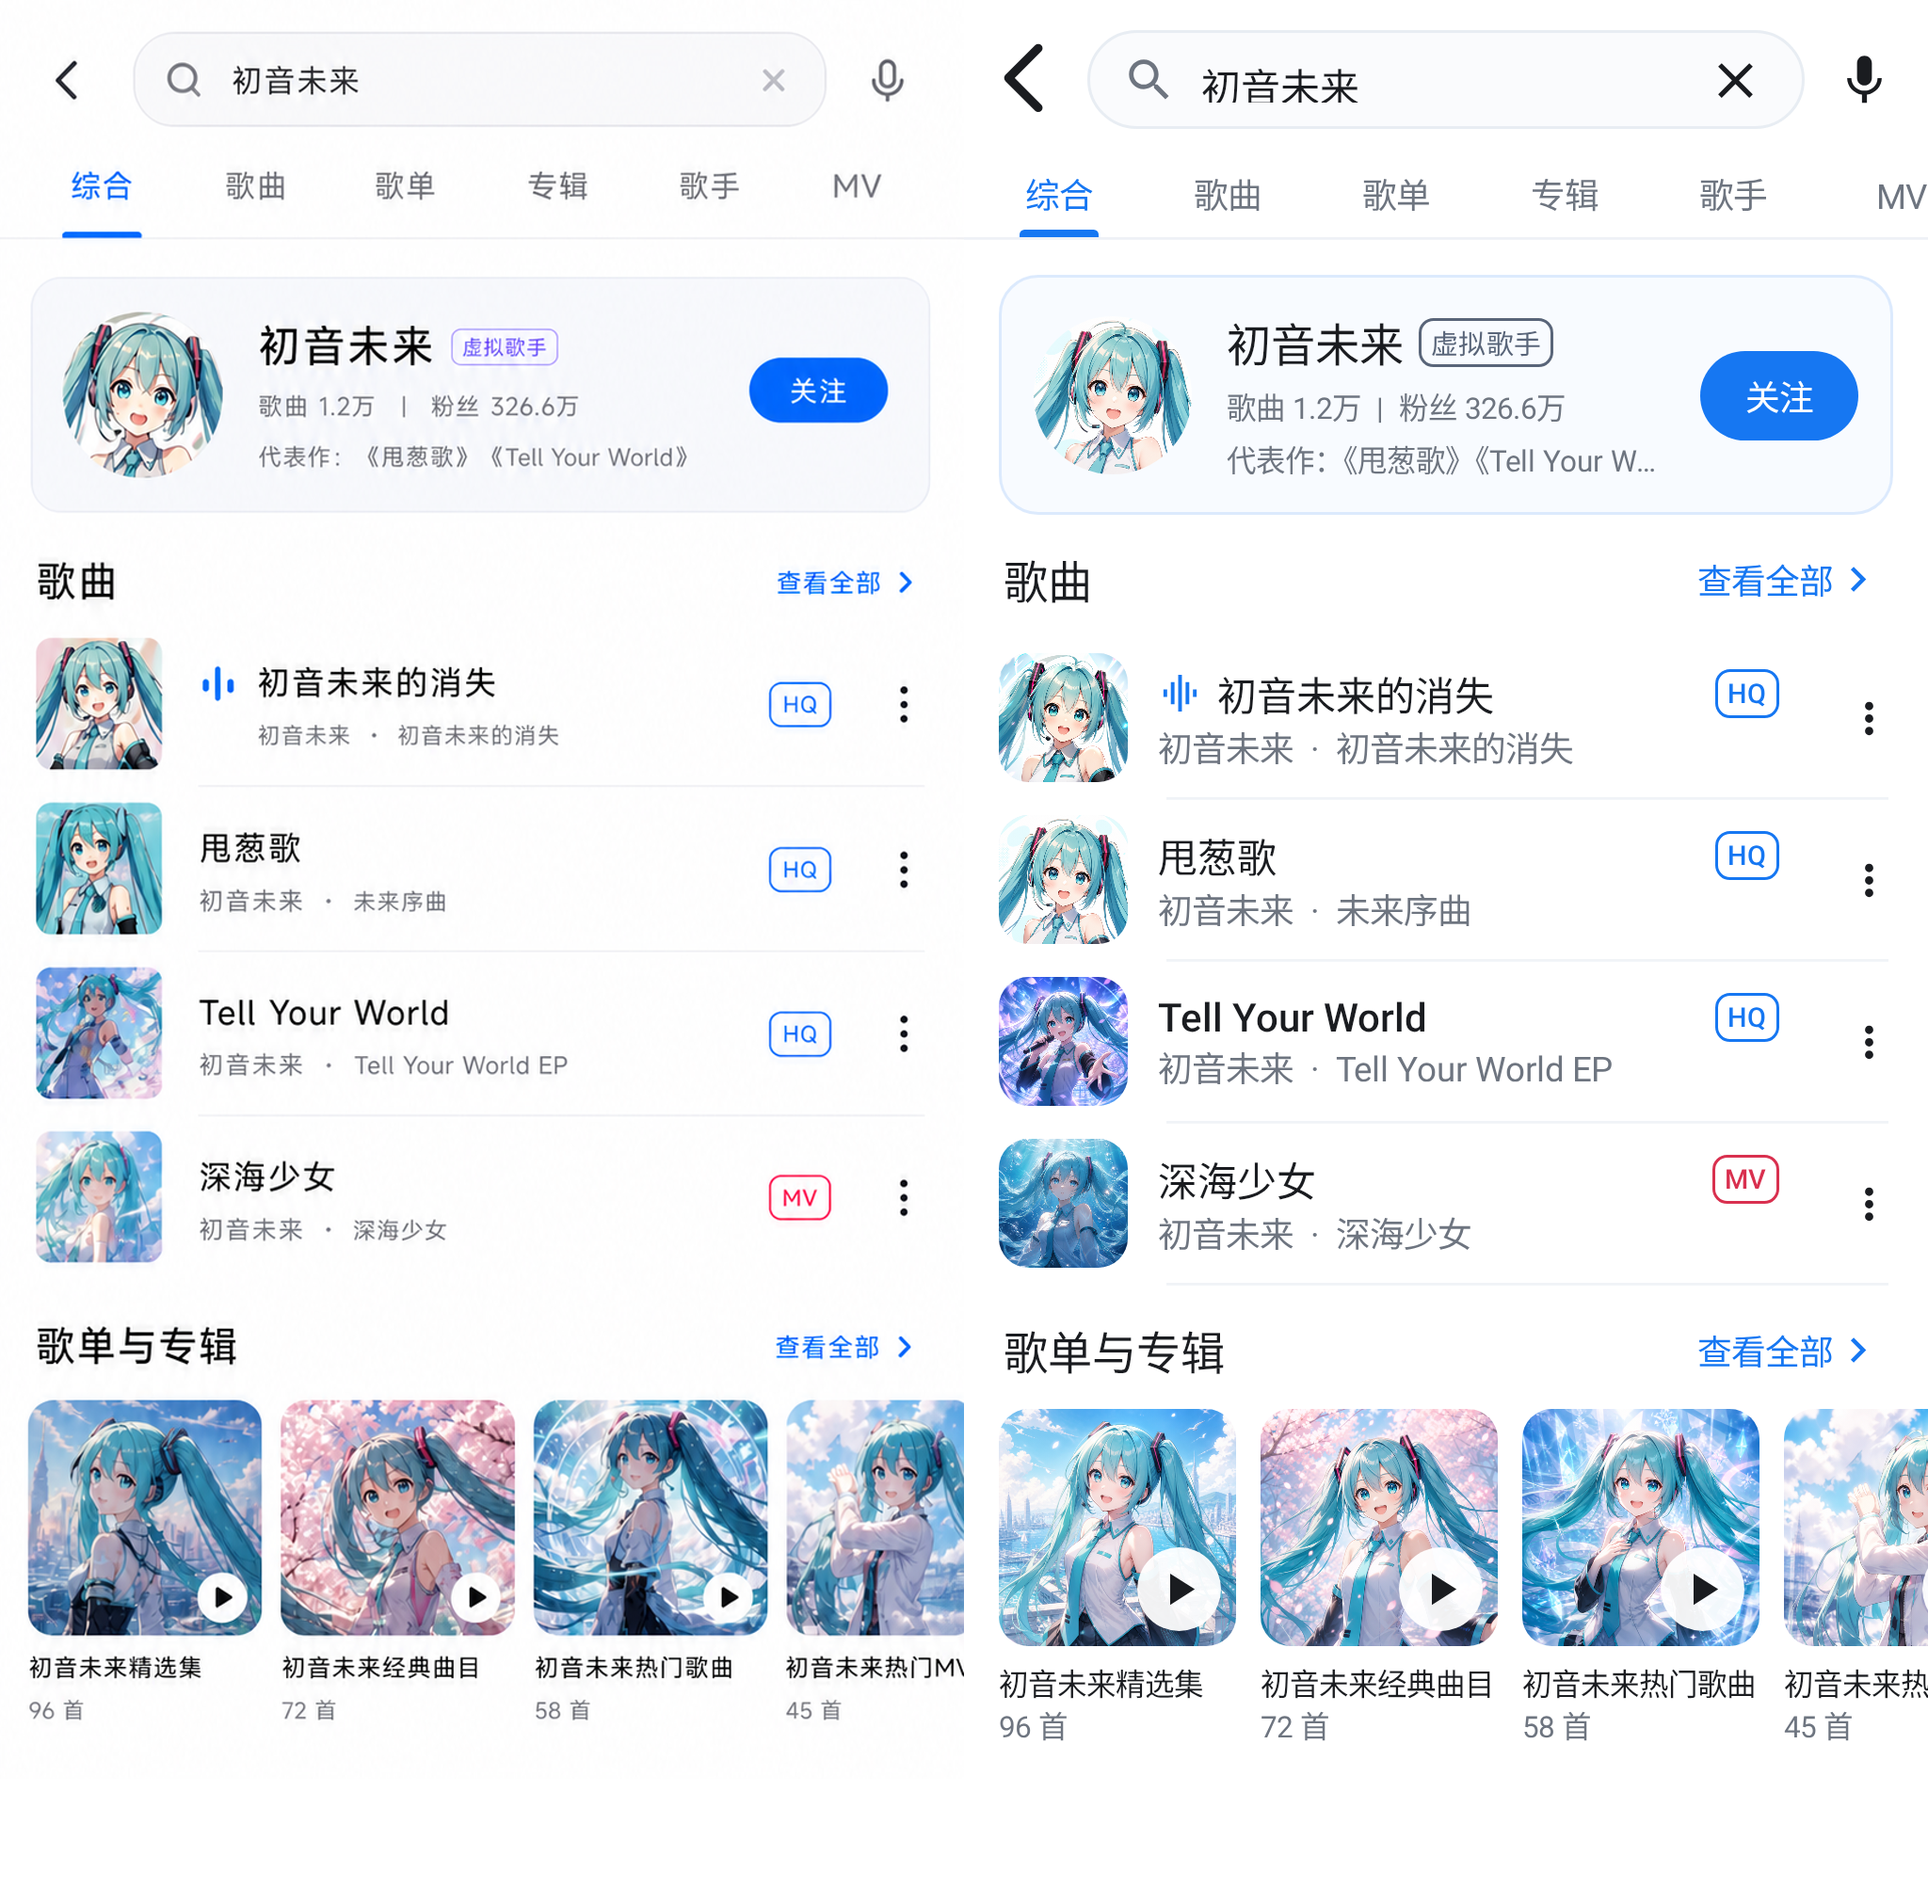
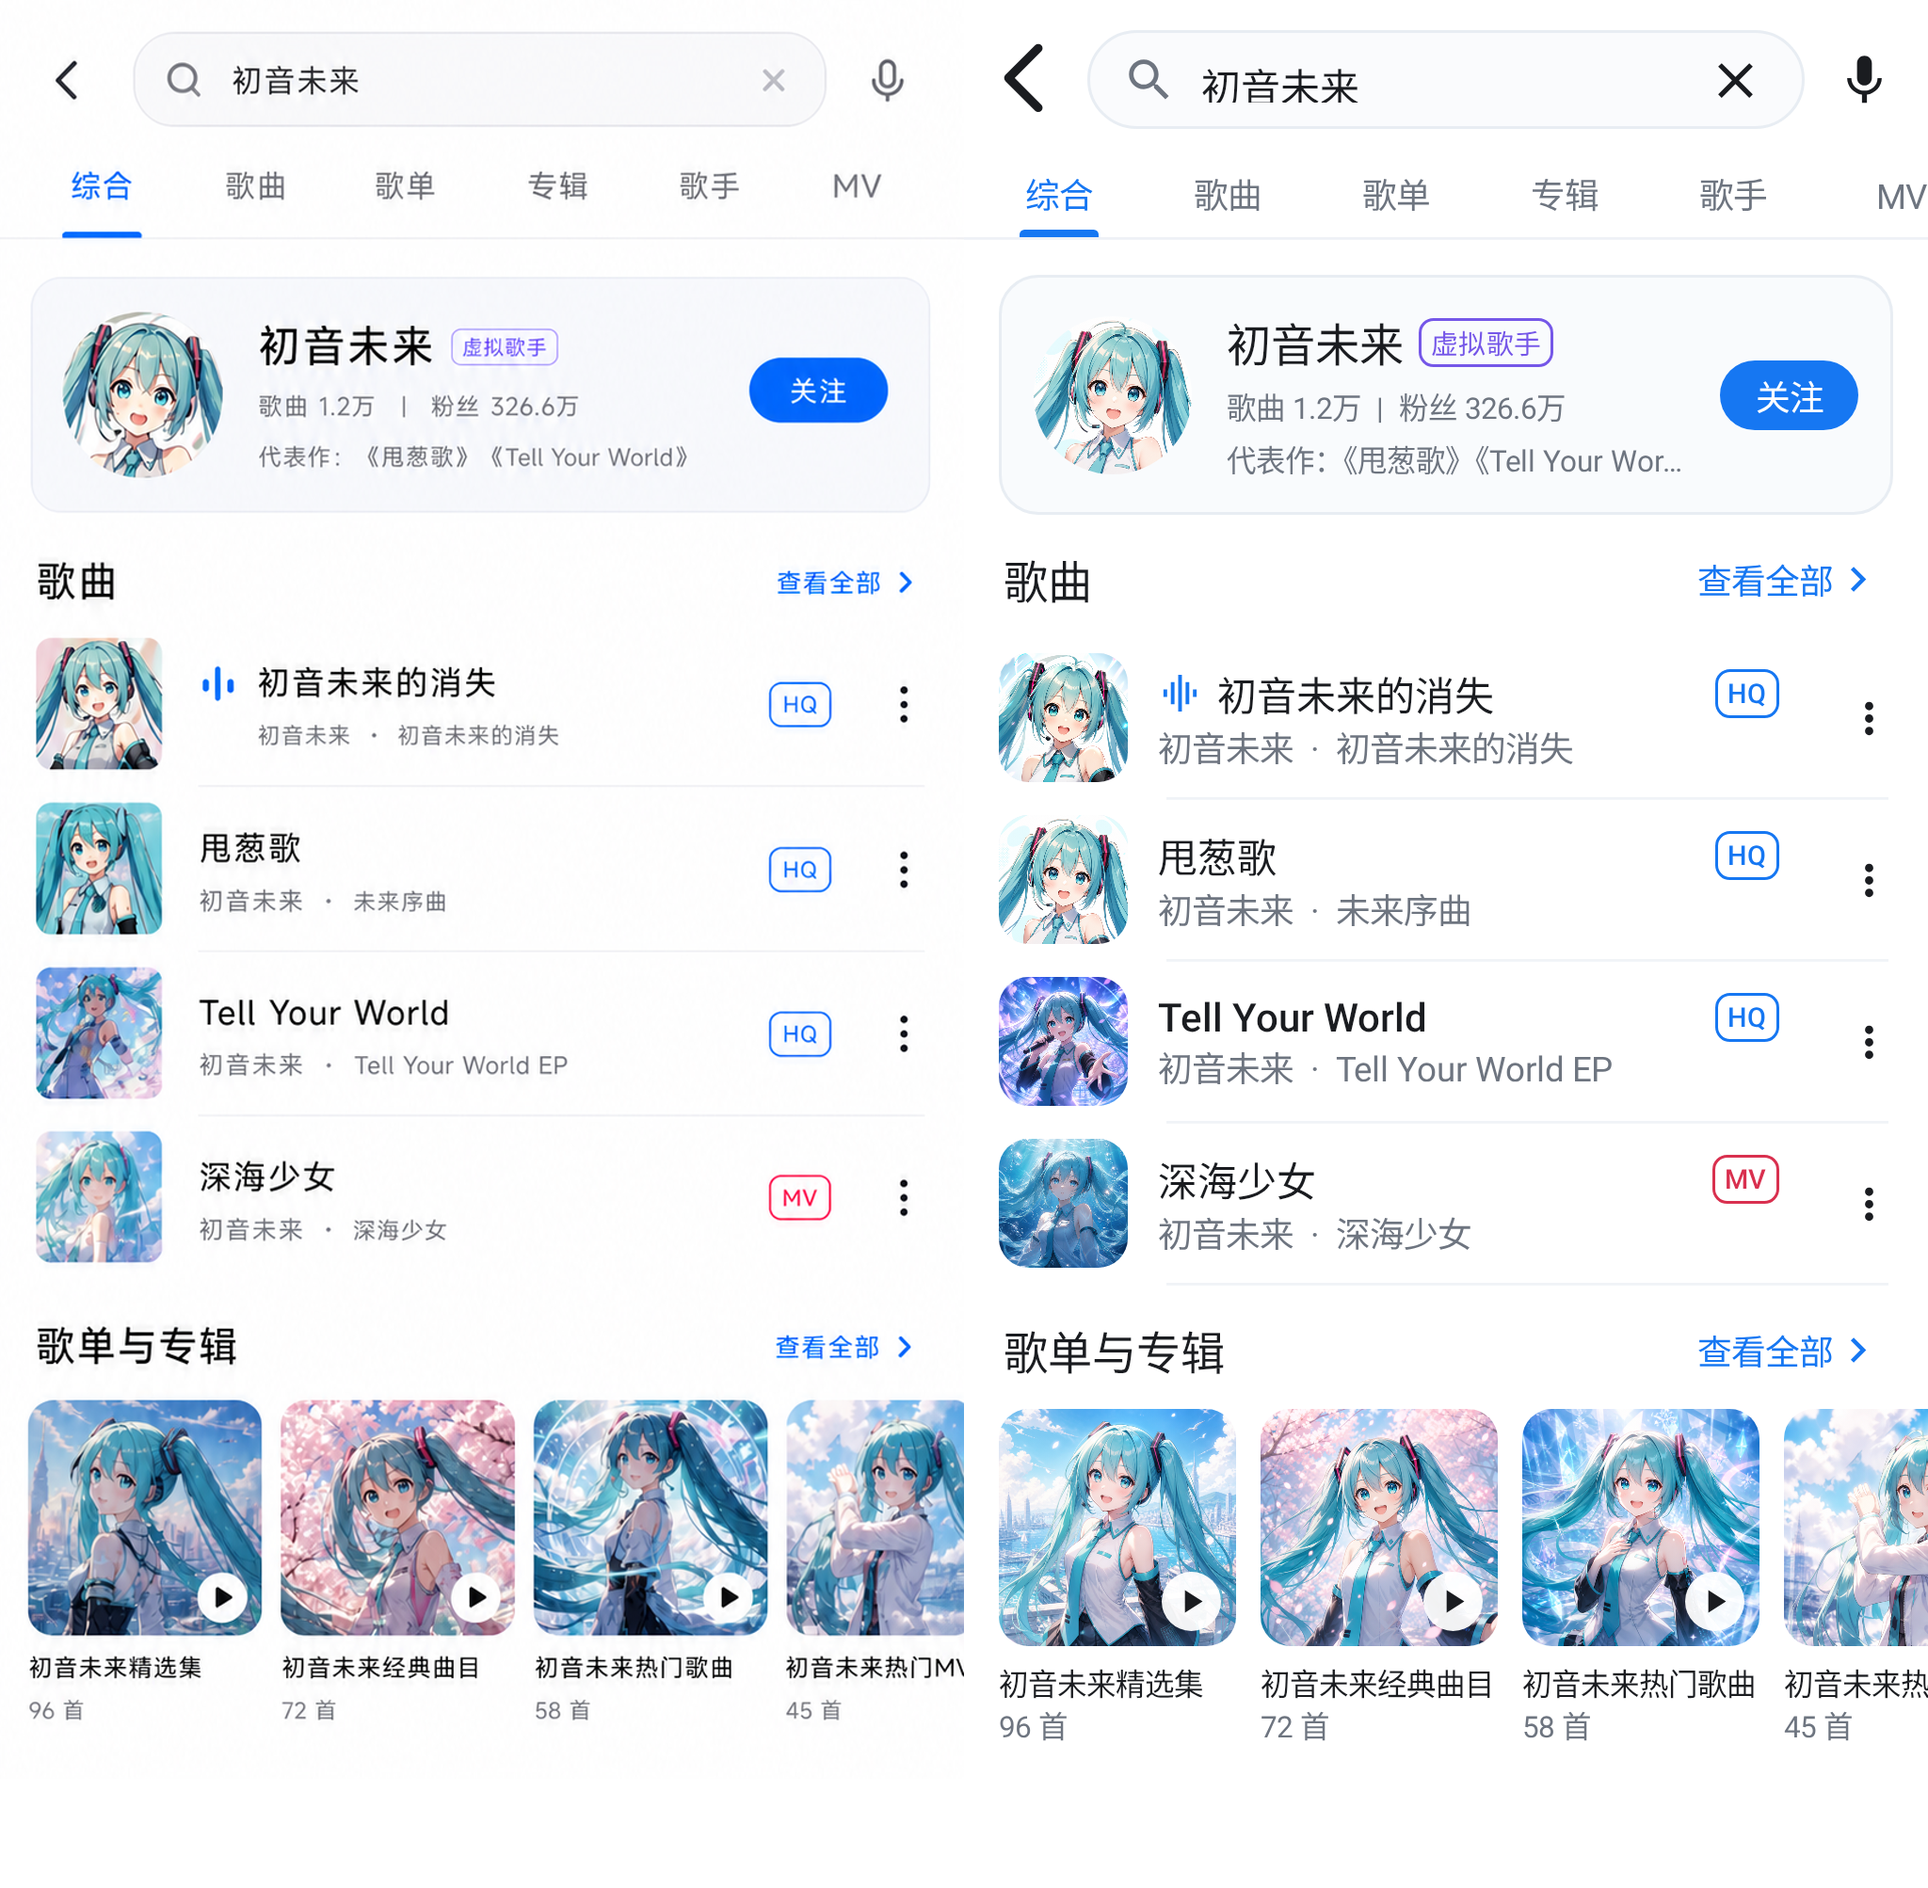
fix(search): match confirmed result components

diff --git a/feature/search/src/main/kotlin/cn/james/music/feature/search/SearchScreen.kt b/feature/search/src/main/kotlin/cn/james/music/feature/search/SearchScreen.kt
@@ -31,7 +31,6 @@ import androidx.compose.material.icons.filled.Mic
 import androidx.compose.material.icons.filled.MoreVert
 import androidx.compose.material.icons.filled.PlayArrow
 import androidx.compose.material.icons.filled.GraphicEq
-import androidx.compose.material3.Button
 import androidx.compose.material3.CircularProgressIndicator
 import androidx.compose.material3.HorizontalDivider
 import androidx.compose.material3.Icon
@@ -50,6 +49,7 @@ import androidx.compose.ui.platform.LocalDensity
 import androidx.compose.ui.platform.testTag
 import androidx.compose.ui.res.painterResource
 import androidx.compose.ui.res.stringResource
+import androidx.compose.ui.semantics.Role
 import androidx.compose.ui.text.font.FontWeight
 import androidx.compose.ui.text.style.TextAlign
 import androidx.compose.ui.text.style.TextOverflow
@@ -266,8 +266,8 @@ private fun ArtistHero(
     Surface(
         modifier = Modifier.fillMaxWidth().padding(horizontal = 14.dp),
         shape = RoundedCornerShape(16.dp),
-        color = MaterialTheme.colorScheme.primaryContainer.copy(alpha = 0.3f),
-        border = BorderStroke(1.dp, MaterialTheme.colorScheme.primary.copy(alpha = 0.12f)),
+        color = MaterialTheme.colorScheme.surfaceContainerLow,
+        border = BorderStroke(1.dp, MaterialTheme.colorScheme.outlineVariant.copy(alpha = 0.72f)),
     ) {
         if (largeText) {
             Column(Modifier.padding(14.dp), horizontalAlignment = Alignment.CenterHorizontally) {
@@ -287,12 +287,20 @@ private fun ArtistHero(
 
 @Composable
 private fun FollowButton(onFollow: () -> Unit) {
-    Button(
-        onClick = onFollow,
-        modifier = Modifier.width(64.dp).height(36.dp),
-        contentPadding = PaddingValues(horizontal = 0.dp),
+    Box(
+        modifier = Modifier.width(56.dp).height(48.dp).clickable(role = Role.Button, onClick = onFollow),
+        contentAlignment = Alignment.Center,
     ) {
-        Text(stringResource(R.string.search_follow))
+        Surface(
+            modifier = Modifier.fillMaxWidth().height(28.dp),
+            shape = RoundedCornerShape(16.dp),
+            color = MaterialTheme.colorScheme.primary,
+            contentColor = MaterialTheme.colorScheme.onPrimary,
+        ) {
+            Box(contentAlignment = Alignment.Center) {
+                Text(stringResource(R.string.search_follow), style = MaterialTheme.typography.labelLarge)
+            }
+        }
     }
 }
 
@@ -314,7 +322,7 @@ private fun ArtistDetails(
     Column(modifier, verticalArrangement = Arrangement.spacedBy(4.dp)) {
         Row(verticalAlignment = Alignment.CenterVertically, horizontalArrangement = Arrangement.spacedBy(6.dp)) {
             Text(artist.name, style = MaterialTheme.typography.titleMedium, fontWeight = FontWeight.Bold)
-            artist.badge?.let { SearchBadge(it, MaterialTheme.colorScheme.secondary) }
+            artist.badge?.let { SearchBadge(it, MaterialTheme.colorScheme.tertiary) }
         }
         Text(artist.stats, color = MaterialTheme.colorScheme.onSurfaceVariant, style = MaterialTheme.typography.bodySmall, maxLines = 1)
         Text(artist.representativeWorks, color = MaterialTheme.colorScheme.onSurfaceVariant, style = MaterialTheme.typography.bodySmall, maxLines = 1, overflow = TextOverflow.Ellipsis)
@@ -418,11 +426,11 @@ private fun SearchCollectionCard(
                 modifier = Modifier.fillMaxWidth().aspectRatio(1f).clip(RoundedCornerShape(12.dp)),
             )
             Surface(
-                modifier = Modifier.align(Alignment.BottomEnd).padding(6.dp).size(34.dp),
+                modifier = Modifier.align(Alignment.BottomEnd).padding(6.dp).size(24.dp),
                 shape = CircleShape,
                 color = MaterialTheme.colorScheme.surface.copy(alpha = 0.94f),
             ) {
-                Icon(Icons.Default.PlayArrow, contentDescription = stringResource(R.string.search_play_collection, item.title), modifier = Modifier.padding(6.dp))
+                Icon(Icons.Default.PlayArrow, contentDescription = stringResource(R.string.search_play_collection, item.title), modifier = Modifier.padding(4.dp))
             }
         }
         Text(item.title, modifier = Modifier.padding(top = 6.dp), style = MaterialTheme.typography.bodySmall, maxLines = 1, overflow = TextOverflow.Ellipsis)

diff --git a/docs/plans/04-content-and-player-ui.md b/docs/plans/04-content-and-player-ui.md
@@ -34,6 +34,7 @@
 - 应用壳 MiniPlayer 已展示真实播放进度、封面及明确播放/暂停和队列语义；子页面隐藏一级导航时会单独处理系统导航栏安全区。
 - 通用 MiniPlayer 已按 `17-music-content-components.png` 与 `01-home-material3-v2.png` 的页面壳层完成同视口视觉校准：保留连续底部 Surface，校正封面、紧凑字级、质量徽标、上一首、主色圆形播放暂停、下一首、队列、起止时间与独立进度条；上一首/下一首继续接入既有播放命令，本次不改 `:playback` 状态所有权。浅色、深色、`1.5×` 聚焦截图与设计并排/叠加/差异证据见 [`mini-player-2026-08-08.md`](../design/evidence/mini-player-2026-08-08.md)，四项操作语义区域继续保持不小于 `48dp`。
 - Search/LocalMusic 截图验证、相关 JVM 单测、Debug 构建与 `MainActivityTest` 真机回归 6/6 通过；真机手动搜索并播放在线歌曲后，MiniPlayer、恢复为暂停状态和队列 Bottom Sheet 均已检查。
+- Search 综合结果页已完成第二轮同画布复核：保留既有搜索、分类、歌曲与横向集合事件，只修正旧证据遗漏的歌手 Hero Surface、关注按钮视觉/触控分层、徽标色调与横卡播放覆盖尺寸；真实搜索数据链路不在本 UI 切片扩展。
 - 已在 `06` 至 `08` 号确认设计图之后建立 [`player-flow`](../design/prototypes/player-flow/README.md) 本地交互原型，并验证封面/歌词双页、点击歌词定位、暂无歌词、纵向退出、队列覆盖层和“先关队列、再退出播放器”的返回优先级；原型不定义 Compose 视觉或协议行为。
 - 独立 `:feature:player` 全屏封面目的地已按 [`PLAYER_LAYOUT_SPEC.md`](../design/PLAYER_LAYOUT_SPEC.md) 和 `06-player-cover.png` 完成第二轮同画布复核：纠正旧证据遗漏的封面锚点、歌曲信息边距、收藏位置、进度细节、核心控制节奏和次级动作密度；播放/暂停、进度、上下首、模式和队列继续复用既有接线，其余次级动作只保留视觉语义，不在本 UI 切片接业务。
 - 播放页仅消费 `:app` 映射的不可变 UI 状态和事件，不直接依赖 `:playback`；高频进度由独立 `State` 交给进度子组合读取。标准视口不依赖尺寸分档，只有内容实际溢出时允许纵向滚动。

diff --git a/docs/design/SEARCH_LAYOUT_SPEC.md b/docs/design/SEARCH_LAYOUT_SPEC.md
@@ -18,10 +18,11 @@
 ## 综合结果正文
 
 - 页面正文使用一个 `LazyColumn`。歌手 Hero、歌曲段和歌单/专辑段是同一滚动所有者，不嵌套纵向列表。
-- 歌手 Hero 水平边距约 `14dp`，圆角 `16dp`，头像约 `72dp` 圆形裁切；昵称、徽标、统计和代表作保持两级文本，关注按钮为 Primary Filled 操作。
+- 歌手 Hero 水平边距 `14dp`，圆角 `16dp`，使用 `surfaceContainerLow` 与低对比 `outlineVariant`；头像约 `64dp` 圆形裁切。关注入口保留至少 `56 × 48dp` 语义区域，内部 Filled 可见面约 `56 × 28dp`，不能套用默认高按钮导致 Hero 右侧过重。
+- 歌手类型徽标使用 Tertiary 描边语义，与 Primary 关注按钮区分；昵称、统计和代表作保持两级文本，按钮缩窄后不得再无故截断代表作。
 - 歌曲区标题左对齐，右侧“查看全部 + Chevron”至少 `48dp`；歌曲行封面约 `52dp`，标题/副标题两行，尾部品质/MV 徽标和更多操作保持紧凑。
 - 当前播放歌曲使用 Primary 指示，不改变整行高度。封面失败仍保留相同槽位。
-- 歌单与专辑使用横向 `LazyRow`，卡片宽约 `104dp`，方形封面、圆角 `12dp`、两行文字和可选播放覆盖；不得把横向卡片改成纵向大卡列表。
+- 歌单与专辑使用横向 `LazyRow`，Compact 卡片宽约 `96dp`，方形封面、圆角 `12dp`、两行文字和可选 `24dp` 播放覆盖；不得把横向卡片改成纵向大卡列表。
 
 ## 状态、主题与适配
 
@@ -37,3 +38,4 @@
 2. 同画布比较 Toolbar 搜索框、Tab 指示条、Hero、歌曲标题、第一/第四行、歌单段标题和首张横卡锚点。
 3. 生成并排、50% 叠加和差异图；可见尺寸偏差必须修正后重新比较。
 4. 仅平台字体栅格、Material 图标笔画和已登记的原创图片内容可列为 P3；结构缺失、错误滚动方向、输入图标槽、间距、圆角和行高不豁免。
+5. 既有截图基线不能替代上述比较；尤其要复核 Hero 大面积 Surface、Filled 操作尺寸、徽标色调和横卡播放覆盖，不得只看区块是否存在。

diff --git a/docs/design/evidence/search-2026-08-08.md b/docs/design/evidence/search-2026-08-08.md
@@ -10,6 +10,8 @@
 
 ## 复核结论
 
+- 第二轮同画布复核否决了旧证据对局部组件的放行：原实现歌手 Hero 偏蓝、边框过强，关注按钮沿用默认高按钮而显得过大，歌手徽标色调错误，横卡播放覆盖也明显大于确认稿。
+- 本轮保持 Toolbar、Tab、正文锚点和数据事件不变，只校正 Hero Surface、`56 × 28dp` 可见关注按钮与 `48dp` 触控区、Tertiary 歌手徽标及 `24dp` 横卡播放覆盖，并重新生成并排、叠加和差异证据。
 - 搜索框、六分类 Tab 分界线、歌手卡上下沿、歌曲区标题、四首歌曲行和歌单/专辑段起点已对齐确认稿结构与首屏密度。
 - 搜索/清除/语音图标均为独立槽位；当前播放歌曲恢复 Primary 波形提示；横向内容使用真实独立位图资产和方形裁切。
 - 可见差异限于平台字体栅格、Material 图标笔画以及重新生成的原创封面内容；没有缺失区块、错误滚动方向、固定占位高度或用生产假数据填充未迁移协议。
@@ -19,3 +21,7 @@
 - 工具：内置 ImageGen；确认稿只作为人物、配色和构图参考，最终文件保存于 `feature/search/src/main/res/drawable-nodpi/*_confirmed.png`。
 - 提示集：分别生成无文字、无 Logo、无 UI 的方形日系动漫插画，包括青色双马尾虚拟歌手头像、近景歌曲封面、蓝紫舞台、深海，以及海滨、樱花、冰晶和晴空四张歌单封面；每张均为独立生成资产，不从确认稿裁图或从拼图切片。
 - 用途限制：这些图片只服务 UI fixture 和静态视觉预览；真实搜索结果继续使用 Repository 返回的封面 URL，不把示例人物或歌单写入生产状态、领域模型或缓存。
+
+## 验证
+
+- `git diff --check`、`spotlessCheck`、Search JVM 单测、10 组 Search 截图校验、Search lint、Debug App 构建与 AndroidTest 编译均通过；指定 ELE-AL00 / API 29 的 App instrumentation 回归 25/25 通过，未创建或启动模拟器。
